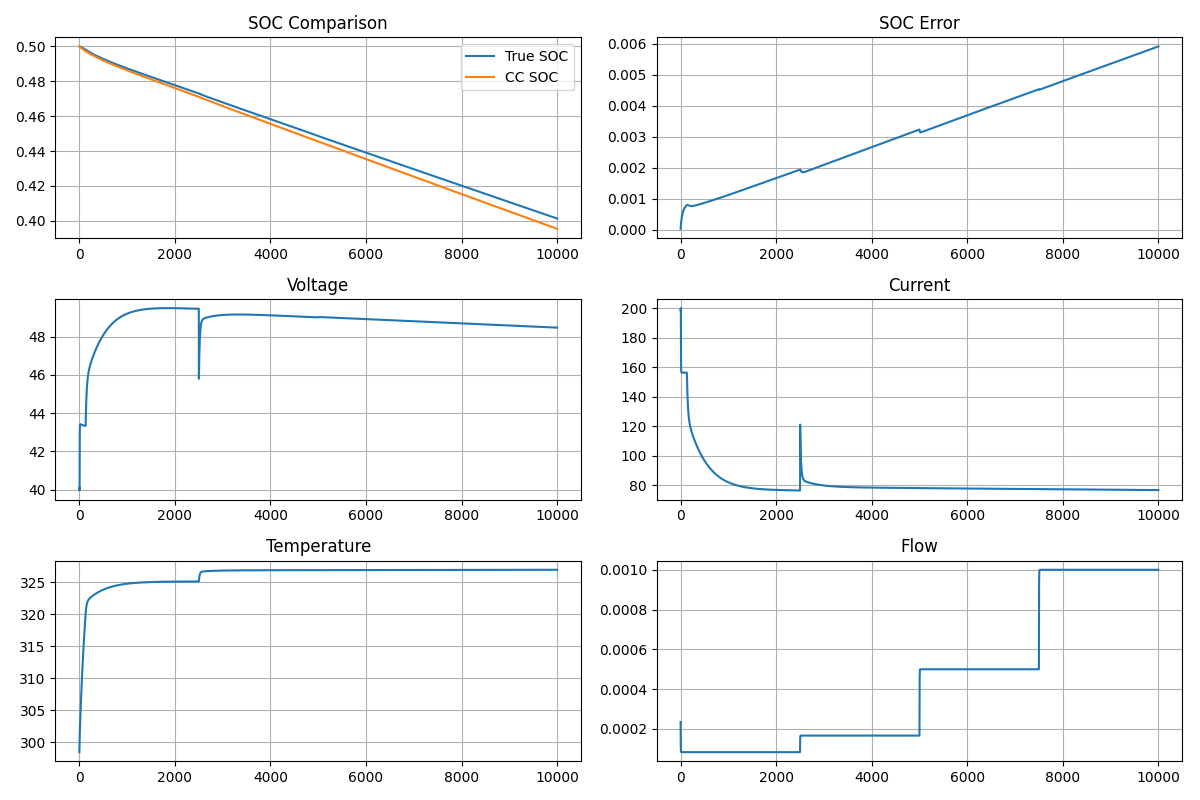
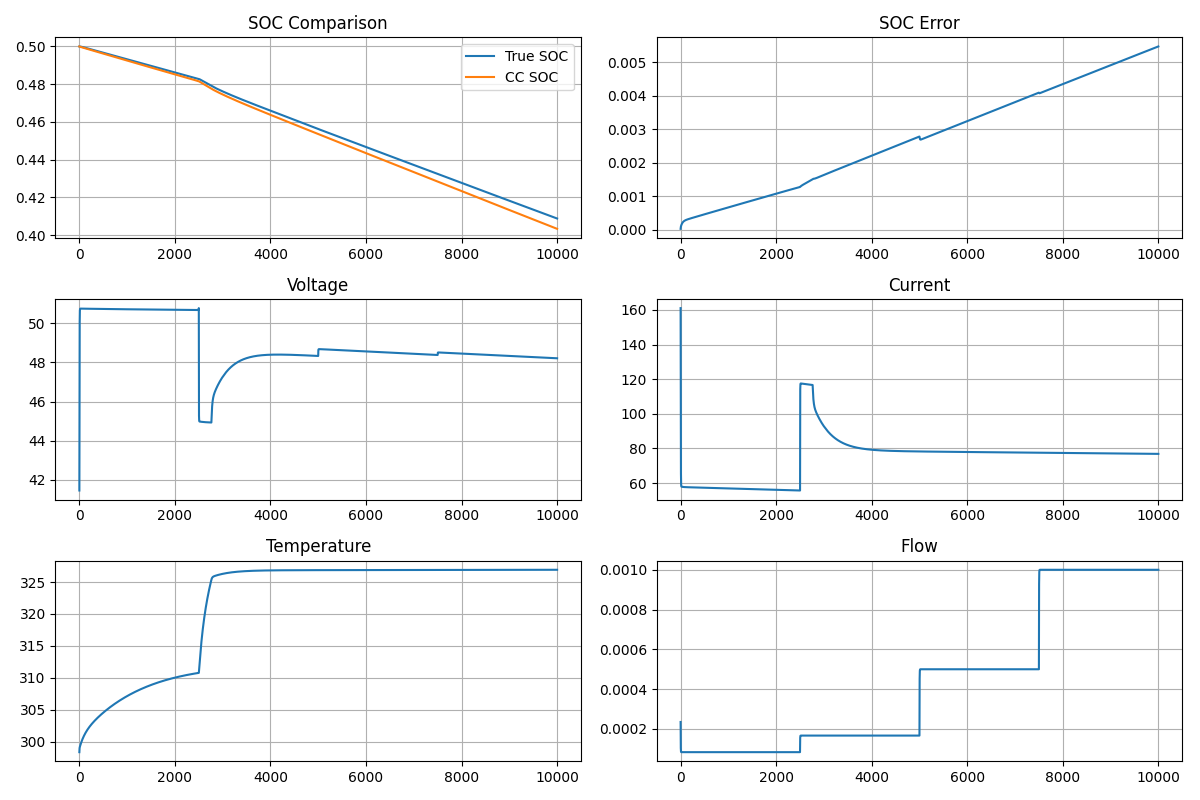
added i_limit margin to 0.7

diff --git a/vrfb/vrfb_core.py b/vrfb/vrfb_core.py
@@ -186,8 +186,24 @@ class VRFB:
         else:                      # Charging
             C_active = min(C_V3_s, C_VO2_s)
             
-        # Limiting Current based on Flow Rate (Q)
-        I_limit = cfg.n * cfg.F * max(Q, 1e-7) * C_active
+        # ------------------------------------------------------------
+    # MASS TRANSFER LIMITING CURRENT (Realistic VRFB Model)
+      # ------------------------------------------------------------
+
+    # Reference mass transfer coefficient
+        k_ref = cfg.k_mass_transfer_coeff
+
+     # Reference flow
+        Q_ref = cfg.initial_flow
+
+       # Flow dependent mass transfer coefficient
+        k_m = k_ref * (Q / Q_ref) ** 0.4
+
+       # Electrode area
+        A = cfg.electrode_area
+
+       # Limiting current
+        I_limit = cfg.n * cfg.F * k_m * A * C_active
         
         # Ratio of actual current to limiting current (clamped for math safety)
         ratio = abs(I_actual) / (I_limit + 1e-9)
@@ -206,6 +222,7 @@ class VRFB:
         # Final Stack Voltage (Nernst/Mass Transport are per cell, Ohmic is already stack-level)
         voltage = (cfg.N_cells * V_cell) - V_ohmic
         # ------------------------------------------------------------
+        transport_ratio = abs(I_actual) / (I_limit + 1e-9)
 
         pump_power = cfg.pump_power_coeff * Q**3
 
@@ -219,6 +236,7 @@ class VRFB:
             "membrane_resistance": R_m,
             "capacity_nominal": Q_nom,
             "pump_power": pump_power,
+            "transport_ratio": transport_ratio,
             "i_limit": I_limit, # Helpful to track in your dashboard
             "current": I_actual
         }

diff --git a/experiments/flow_dynamic.py b/experiments/flow_dynamic.py
@@ -34,7 +34,7 @@ temperature = []
 flow = []
 i_limit_log = []
 pump_power = []
-
+transport_ratio = []
 # ------------------------------------------------------------
 # Simulation Loop
 # ------------------------------------------------------------
@@ -64,6 +64,7 @@ for step in range(steps):
     # --------------------------------------------------------
     # BMS Protection
     # --------------------------------------------------------
+    
     prev_out = battery.get_outputs()
     I_safe = bms.apply_protection(I_cmd, prev_out)
 
@@ -83,6 +84,7 @@ for step in range(steps):
         dt=dt,
         Q_nominal=out["capacity_nominal"]
     )
+    print(out["i_limit"], out["current"])
 
     # --------------------------------------------------------
     # Logging
@@ -96,6 +98,7 @@ for step in range(steps):
     flow.append(out["flow_rate"])
     i_limit_log.append(out["i_limit"])
     pump_power.append(out["pump_power"])
+    transport_ratio.append(out["transport_ratio"])
 
 
 # ------------------------------------------------------------
@@ -119,7 +122,7 @@ folder = "results/test_6_flow_sweep_dynamic"
 
 save_plots(folder,
            time_log, true_soc, est_soc,
-           voltage, current, temperature, flow)
+           voltage, current, temperature, flow,transport_ratio)
 
 save_metrics(folder, rmse, mae, max_e, final_e)
 plt.figure()

diff --git a/vrfb/utils.py b/vrfb/utils.py
@@ -16,7 +16,7 @@ def compute_metrics(true_soc, est_soc):
     return rmse, mae, max_error, final_error
 
 
-def save_plots(folder, time, true_soc, est_soc, voltage, current, temperature, flow):
+def save_plots(folder, time, true_soc, est_soc, voltage, current, temperature, flow,transport_ratio=None):
 
     os.makedirs(folder, exist_ok=True)
 
@@ -57,6 +57,25 @@ def save_plots(folder, time, true_soc, est_soc, voltage, current, temperature, f
     plt.tight_layout()
     plt.savefig(f"{folder}/results.png")
     plt.close()
+    if transport_ratio is not None:
+        plt.figure()
+
+        plt.plot(time, transport_ratio)
+        plt.title("Transport Utilization Ratio (|I| / I_limit)")
+        plt.xlabel("Time (s)")
+        plt.ylabel("Transport Ratio")
+        plt.grid()
+
+        plt.axhline(0.3, linestyle="--")
+        plt.axhline(0.7, linestyle="--")
+        plt.axhline(0.9, linestyle="--")
+
+        plt.savefig(f"{folder}/transport_ratio.png")
+        plt.close()
+        
+
+    
+
 def save_metrics(folder, rmse, mae, max_error, final_error):
 
     os.makedirs(folder, exist_ok=True)

diff --git a/vrfb/bms_controller.py b/vrfb/bms_controller.py
@@ -61,8 +61,10 @@ class BMSController:
         # --------------------------------------------------------
         if I_limit is not None and I_limit > 0:
             I_max_allowed = cfg.limiting_current_margin * I_limit
-            if abs(I_safe) > I_max_allowed:
-                I_safe = np.sign(I_safe) * I_max_allowed
+            ratio = abs(I_safe) / I_max_allowed
+            if ratio > 1:
+                I_safe /= ratio
+            
 
         # --------------------------------------------------------
         # 6⃣ FLOW-CRITICAL DERATING

diff --git a/vrfb/config.py b/vrfb/config.py
@@ -131,7 +131,7 @@ class VRFBConfig:
         self.T_derate = 320.0       # K start derating
 
         # Current derating margin
-        self.limiting_current_margin = 0.9
+        self.limiting_current_margin = 0.7
 
         # Flow protection threshold
         self.flow_critical = 8.0 * self.LPM_to_m3s  # below this is dangerous
